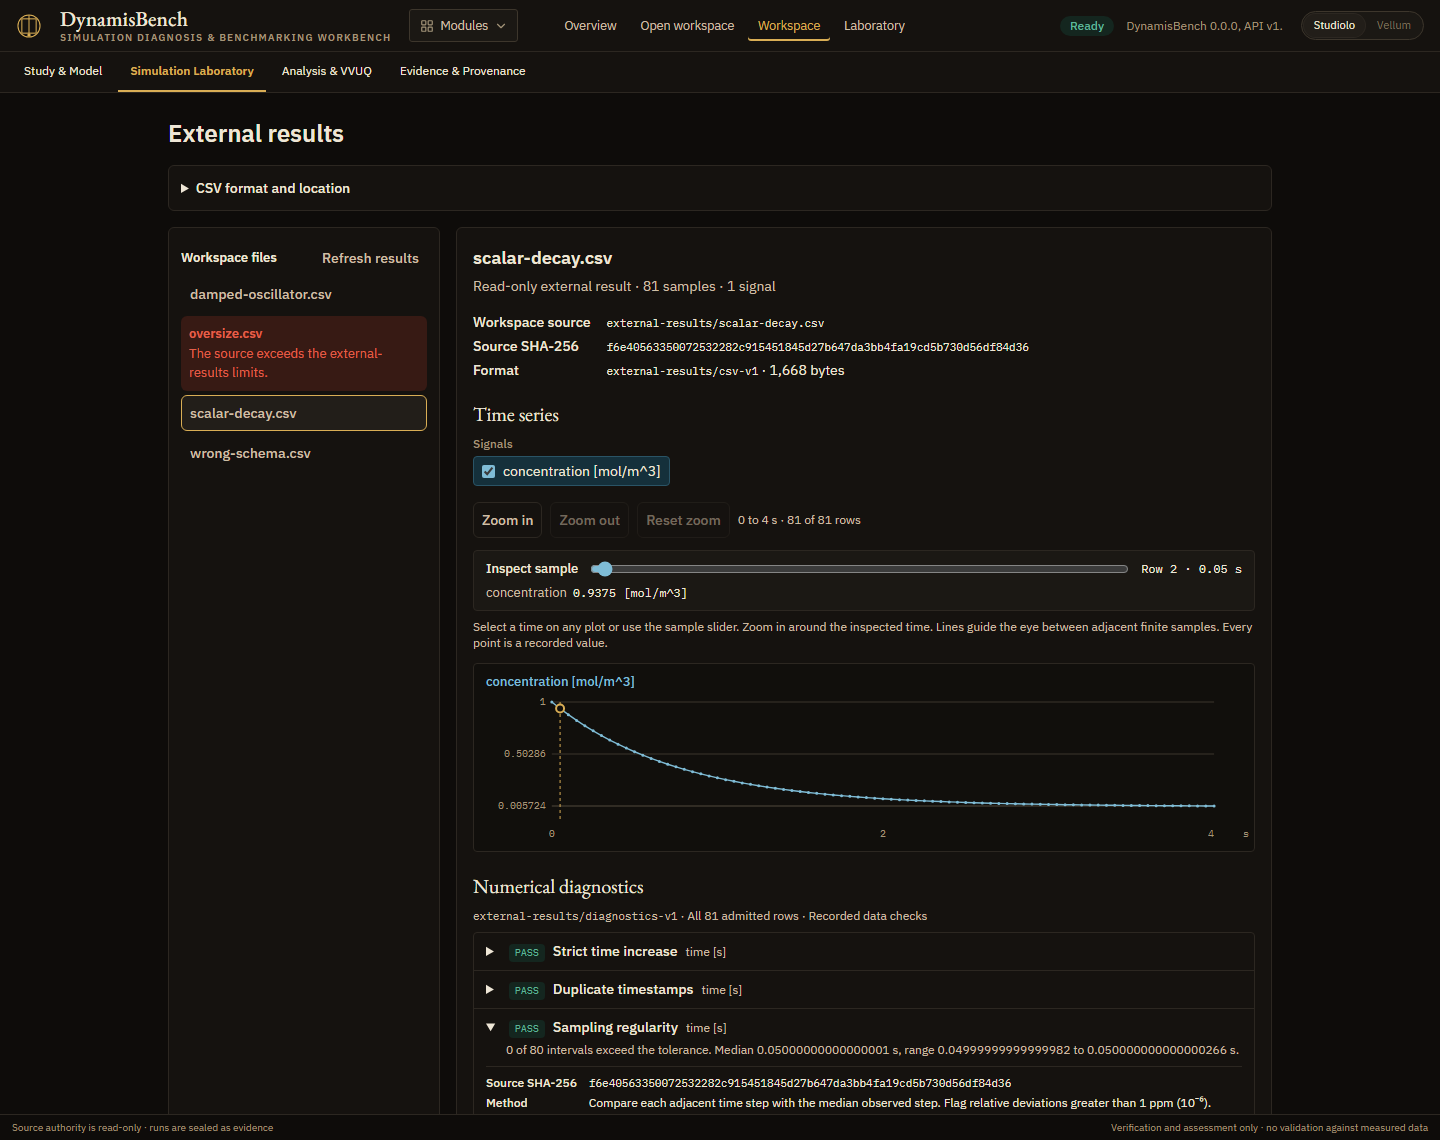
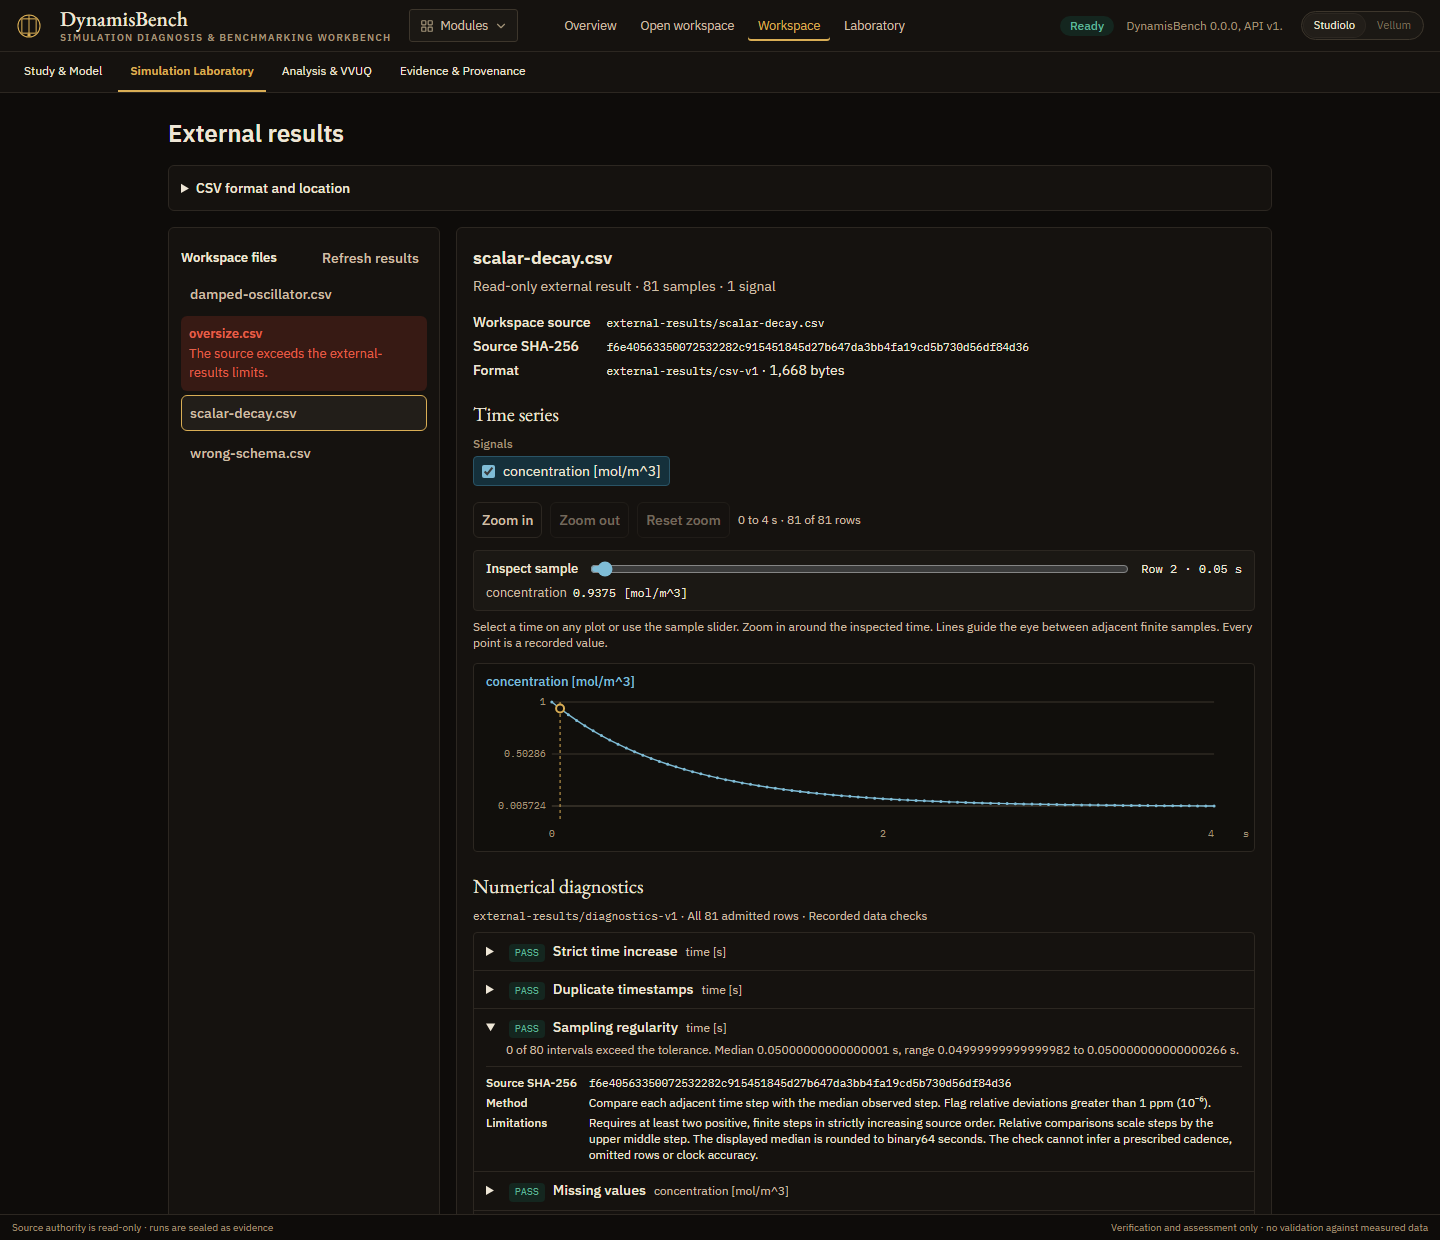
RES-742: handle extreme binary64 axes and sampling intervals

diff --git a/apps/workbench/src/workbench/external-plots.tsx b/apps/workbench/src/workbench/external-plots.tsx
@@ -3,7 +3,7 @@ import { useEffect, useMemo, useRef, useState, type MouseEvent } from "react";
 import type { ResultColumn } from "../api/external-results";
 import { Button } from "../ui/button";
 import type { ExternalResult } from "./external-samples";
-import { buildTrace, plotFraction, plotValue, recordedValue, timeDomain, type PlotDomain } from "./external-trace";
+import { buildTrace, plotFraction, plotTicks, plotValue, recordedValue, timeDomain, type PlotDomain } from "./external-trace";
 
 const LEFT = 78;
 const RIGHT = 40;
@@ -131,17 +131,6 @@ export function ExternalPlots({ result, connect }: { result: ExternalResult; con
   );
 }
 
-function ticks(domain: PlotDomain, fractions: readonly number[]) {
-  const seen = new Set<string>();
-  return fractions.flatMap((fraction) => {
-    const value = plotValue(domain, fraction);
-    const label = String(Number(value.toPrecision(5)));
-    if (seen.has(label)) return [];
-    seen.add(label);
-    return [{ label, fraction: plotFraction(value, domain) }];
-  });
-}
-
 function SignalPlot({ channel, column, rows, indices, domain, width, connect, cursor, inspect }: {
   channel: ResultColumn;
   column: number;
@@ -158,8 +147,8 @@ function SignalPlot({ channel, column, rows, indices, domain, width, connect, cu
   const y = (fraction: number) => BASELINE - fraction * (BASELINE - TOP);
   const trace = useMemo(() => buildTrace(rows, indices, column, (time) =>
     LEFT + plotFraction(time, domain) * span, y, connect), [rows, indices, column, domain, span, connect]);
-  const timeTicks = ticks(domain, width < 420 ? [0, 1] : TICK_FRACTIONS);
-  const valueTicks = trace.domain === null ? [] : ticks(trace.domain, TICK_FRACTIONS);
+  const timeAxis = plotTicks(domain, width < 420 ? [0, 1] : TICK_FRACTIONS);
+  const valueAxis = trace.domain === null ? null : plotTicks(trace.domain, TICK_FRACTIONS);
   const cursorValue = cursor[column]!;
   const cursorX = x(cursor[0]);
   const title = `${channel.name} [${channel.unit}]`;
@@ -168,6 +157,12 @@ function SignalPlot({ channel, column, rows, indices, domain, width, connect, cu
     <figure className="min-w-0 rounded border border-line bg-scene py-2">
       <figcaption className="flex flex-wrap items-center gap-x-3 gap-y-1 px-3">
         <span className="min-w-0 wrap-anywhere font-medium text-ext">{title}</span>
+        {timeAxis.origin !== null && (
+          <span className="text-xs text-ink-2">Time ticks relative to {recordedValue(timeAxis.origin)} s</span>
+        )}
+        {valueAxis?.origin != null && (
+          <span className="text-xs text-ink-2">Value ticks relative to {recordedValue(valueAxis.origin)} [{channel.unit}]</span>
+        )}
         {trace.domain === null && <span className="text-xs text-ink-2">No finite values in view</span>}
         {trace.missing !== "" && <span className="text-xs text-warn">Missing · upper marks</span>}
         {trace.nonfinite !== "" && <span className="text-xs text-err">Nonfinite · lower marks</span>}
@@ -176,13 +171,13 @@ function SignalPlot({ channel, column, rows, indices, domain, width, connect, cu
         preserveAspectRatio="none" role="img"
         aria-label={`${title} over time [s]`} onClick={inspect} className="block cursor-crosshair">
         <g className="fill-ink-3 font-mono text-[10px]">
-          {valueTicks.map(({ label, fraction }) => (
+          {valueAxis?.ticks.map(({ label, fraction }) => (
             <g key={label}>
               <line x1={LEFT} x2={width - RIGHT} y1={y(fraction)} y2={y(fraction)} className="stroke-line-2" />
               <text x={LEFT - 6} y={y(fraction) + 3} textAnchor="end">{label}</text>
             </g>
           ))}
-          {timeTicks.map(({ label, fraction }) => (
+          {timeAxis.ticks.map(({ label, fraction }) => (
             <text key={label} x={LEFT + fraction * span} y={HEIGHT - 6}
               textAnchor={fraction === 1 ? "end" : "middle"}>{label}</text>
           ))}

diff --git a/apps/workbench/e2e/external-results.spec.ts b/apps/workbench/e2e/external-results.spec.ts
@@ -71,7 +71,7 @@ test("discovers and inspects numeric files through the secured sidecar", async (
 
   const screenshotDir = process.env.DYNAMISBENCH_RESULTS_SCREENSHOTS;
   if (screenshotDir) {
-    await page.setViewportSize({ width: 1440, height: 1140 });
+    await page.setViewportSize({ width: 1440, height: 1240 });
     await page.getByRole("heading", { name: "External results" }).scrollIntoViewIfNeeded();
     await page.screenshot({ path: path.join(screenshotDir, "gate-2-scalar.png") });
   }
@@ -148,11 +148,18 @@ test("exposes gaps, nonfinite observations, irregular grids and source refusals"
   const folder = path.join(sourceRoot, "external-results");
   await mkdir(folder);
   const gaps = "time[s],x[m]\n0,2\n1,100\n2,\n3,-100\n4,NaN\n5,+Inf\n6,-Inf\n7,3";
+  const extreme = Number.MAX_VALUE;
+  const denseRows = Array.from({ length: 20_000 }, (_, index) => {
+    const x = index === 10_017 ? 9999 : index === 19_999 ? "" : 0;
+    return `${index},${x},0,0,0`;
+  });
   const files = {
     "gaps.csv": gaps,
     "irregular.csv": "time[s],x[m]\n0,0\n1,2\n5,-9\n6,5",
     "duplicates.csv": "time[s],x[m]\n0,0\n2,1\n0,2",
-    "extreme.csv": "time[s],x[m]\n-1e308,-1e308\n1e308,1e308",
+    "extreme.csv": `time[s],x[m]\n${-extreme},${-extreme}\n${extreme},${extreme}`,
+    "offset.csv": "time[s],x[m]\n1000000000,1000000000\n1000000001,1000000001\n1000000002,1000000002",
+    "dense.csv": `time[s],x[m],y[m],z[m],speed[m/s]\n${denseRows.join("\n")}`,
     "bad-row.csv": "time[s],x[m]\n0,1\n1,2,3",
   };
   await Promise.all(Object.entries(files).map(([name, contents]) => writeFile(path.join(folder, name), contents)));
@@ -211,8 +218,26 @@ test("exposes gaps, nonfinite observations, irregular grids and source refusals"
   await choose("extreme.csv");
   await expect(regularity.locator("summary")).toContainText("UNSUPPORTED");
   await expect(plot).toBeVisible();
+  await expect(plot.getByText("Infinity")).toHaveCount(0);
   expect(await plot.locator("[d]").evaluateAll((paths) => paths.map((element) => element.getAttribute("d"))))
     .not.toEqual(expect.arrayContaining([expect.stringMatching(/NaN|Infinity/)]));
+
+  await choose("offset.csv");
+  await expect(page.getByText("Time ticks relative to 1000000000 s")).toBeVisible();
+  await expect(page.getByText("Value ticks relative to 1000000000 [m]")).toBeVisible();
+  await expect(plot.getByText("1", { exact: true })).toHaveCount(2);
+
+  await choose("dense.csv");
+  await expect(page.getByLabel("Visible time span")).toContainText("20000 of 20000 rows");
+  await expect(plot.getByText("9999", { exact: true })).toBeVisible();
+  const denseMissing = finding("Missing values").filter({ hasText: "x [m]" });
+  await denseMissing.locator("summary").click();
+  await expect(denseMissing).toContainText("1 of 20000 values are missing.");
+  await expect(denseMissing.getByText("20000", { exact: true })).toBeVisible();
+  await page.getByRole("button", { name: "Zoom in", exact: true }).click();
+  await expect(page.getByLabel("Visible time span")).toContainText("10000 of 20000 rows");
+  await expect(plot.getByText("9999", { exact: true })).toHaveCount(0);
+  await expect(denseMissing).toContainText("1 of 20000 values are missing.");
 
   await choose("bad-row.csv");
   await expect(page.getByRole("alert")).toContainText("Each row must match the header");

diff --git a/apps/workbench/src/workbench/external-diagnostics.ts b/apps/workbench/src/workbench/external-diagnostics.ts
@@ -20,7 +20,7 @@ const METHODS = {
   regularity: {
     label: "Sampling regularity",
     method: "Compare each adjacent time step with the median observed step. Flag relative deviations greater than 1 ppm (10⁻⁶).",
-    limitations: "Requires at least two positive, finite steps in strictly increasing source order. The tolerance describes the decoded grid. The check cannot infer a prescribed cadence, omitted rows or clock accuracy.",
+    limitations: "Requires at least two positive, finite steps in strictly increasing source order. Relative comparisons scale steps by the upper middle step. The displayed median is rounded to binary64 seconds. The check cannot infer a prescribed cadence, omitted rows or clock accuracy.",
   },
   missing: {
     label: "Missing values",
@@ -114,10 +114,15 @@ export function diagnoseExternalResult({ metadata, rows }: ExternalResult): Exte
     const sorted = steps.toSorted((a, b) => a - b);
     const lower = sorted[Math.floor((sorted.length - 1) / 2)]!;
     const upper = sorted[Math.floor(sorted.length / 2)]!;
-    const median = lower + (upper - lower) / 2;
+    // In units of the upper middle step, the median stays in [0.5, 1] even
+    // when its value in seconds falls between adjacent positive subnormals.
+    const scaledMedian = (lower / upper + 1) / 2;
+    const median = scaledMedian * upper;
     const irregular: Tally = { count: 0 };
     for (const [index, step] of steps.entries()) {
-      if (Math.abs(step - median) / median > RELATIVE_STEP_TOLERANCE) countAt(irregular, index + 1);
+      if (Math.abs(step / upper - scaledMedian) / scaledMedian > RELATIVE_STEP_TOLERANCE) {
+        countAt(irregular, index + 1);
+      }
     }
     findings.push(finding("regularity", time, irregular.count === 0 ? "PASS" : "FAIL",
       `${irregular.count} of ${steps.length} intervals exceed the tolerance. Median ${median} s, range ${sorted[0]} to ${sorted.at(-1)} s.`,

diff --git a/apps/workbench/src/workbench/external-trace.ts b/apps/workbench/src/workbench/external-trace.ts
@@ -33,6 +33,26 @@ export function recordedValue(value: number | null): string {
   return Object.is(value, -0) ? "-0" : String(value);
 }
 
+function tickLabel(value: number): string {
+  // Keep the rounded decimal as text. Re-parsing can overflow near Number.MAX_VALUE.
+  return value.toPrecision(5).replace(/(\.\d*?[1-9])0+(?=e|$)|\.0+(?=e|$)/, "$1");
+}
+
+export function plotTicks(domain: PlotDomain, fractions: readonly number[]) {
+  const values = [...new Set(fractions.map((fraction) => plotValue(domain, fraction)))];
+  const labels = values.map(tickLabel);
+  // Large offsets can make distinct ticks round to the same label. Express that
+  // narrow axis relative to its minimum and expose the origin next to the plot.
+  const origin = new Set(labels).size < values.length ? domain[0] : null;
+  return {
+    origin,
+    ticks: values.map((value, index) => ({
+      label: origin === null ? labels[index]! : tickLabel(value - origin),
+      fraction: plotFraction(value, domain),
+    })),
+  };
+}
+
 /** Map every visible source row to geometry before rounding coordinates for SVG. */
 export function buildTrace(
   rows: ExternalResult["rows"],

diff --git a/apps/workbench/src/workbench/external-trace.test.ts b/apps/workbench/src/workbench/external-trace.test.ts
@@ -1,6 +1,6 @@
 import { describe, expect, it } from "vitest";
 
-import { buildTrace, plotFraction, plotValue, timeDomain } from "./external-trace";
+import { buildTrace, plotFraction, plotTicks, plotValue, timeDomain } from "./external-trace";
 import type { ExternalResult } from "./external-samples";
 
 describe("external trace geometry", () => {
@@ -36,5 +36,16 @@ describe("external trace geometry", () => {
     expect(plotFraction(0, [-Number.MAX_VALUE, Number.MAX_VALUE])).toBe(0.5);
     expect(plotValue([-Number.MAX_VALUE, Number.MAX_VALUE], 0.5)).toBe(0);
     expect(plotFraction(8, [8, 8])).toBe(0.5);
+  });
+
+  it("labels finite extremes and resolves closely spaced values at a large offset", () => {
+    const values = plotTicks([-Number.MAX_VALUE, Number.MAX_VALUE], [0, 0.5, 1]);
+    expect(values.ticks.map(({ label }) => label)).toEqual(["-1.7977e+308", "0", "1.7977e+308"]);
+    expect(plotTicks([1e9, 1e9 + 1], [0, 0.5, 1])).toEqual({
+      origin: 1e9,
+      ticks: [
+        { label: "0", fraction: 0 }, { label: "0.5", fraction: 0.5 }, { label: "1", fraction: 1 },
+      ],
+    });
   });
 });

diff --git a/apps/workbench/src/workbench/external-diagnostics.test.ts b/apps/workbench/src/workbench/external-diagnostics.test.ts
@@ -67,6 +67,14 @@ describe("external diagnostics v1", () => {
     expect(diagnose([[-1e308, 1, 1], [1e308, 1, 1]]).findings[2]?.status).toBe("UNSUPPORTED");
   });
 
+  it("compares steps before converting a subnormal median to displayed seconds", () => {
+    const tiny = Number.MIN_VALUE;
+    const { findings } = diagnose([[0, 1, 1], [tiny, 1, 1], [tiny * 3, 1, 1]]);
+    expect(findings[2]).toMatchObject({
+      check: "regularity", status: "FAIL", affectedCount: 2, firstAffectedRow: 2,
+    });
+  });
+
   it("checks the last admitted row even in a dense result", () => {
     const rows: ExternalResult["rows"] = Array.from({ length: 20_000 }, (_, i) => [
       i, i === 19_999 ? null : 1, i === 19_999 ? Infinity : 1,

diff --git a/evidence/RES-742/README.md b/evidence/RES-742/README.md
@@ -7,7 +7,7 @@
 1. Open both fixture CSVs using the Gate 1 steps below. On scalar decay, move the **Inspect sample** slider one row with the right arrow. Row 2 shows 0.05 s and 0.9375 mol/m³. Zoom in, then zoom out to restore the original time span.
 2. On damped oscillator, select **position** and **velocity**. Click a plot to inspect the nearest recorded time on both channels, zoom in around that row, then reset. Each panel has its own labeled value scale. The slider steps through visible rows in source order, including duplicates.
 3. Expand a finding in **Numerical diagnostics**. Verify its recorded quantity, source SHA-256, method and limits. Both fixtures pass the descriptive checks. Zoom and signal selection leave their diagnostic sample counts fixed.
-4. Run the focused secured-sidecar test with `pnpm --filter @dynamisbench/workbench run test:e2e external-results.spec.ts`. It also exercises extrema, missing and nonfinite samples, irregular and repeated timestamps, extreme binary64 values, malformed rows, source changes and narrow-screen controls. Set `DYNAMISBENCH_RESULTS_SCREENSHOTS` to a local directory to capture the Gate 2 views.
+4. Run the focused secured-sidecar test with `pnpm --filter @dynamisbench/workbench run test:e2e external-results.spec.ts`. It also exercises extrema, missing and nonfinite samples, irregular and repeated timestamps, extreme binary64 values, large offsets, malformed rows, source changes and narrow-screen controls. A 20,000-row import verifies that zoom changes the visible extrema while the findings still account for every admitted row. Set `DYNAMISBENCH_RESULTS_SCREENSHOTS` to a local directory to capture the Gate 2 views.
 
 Diagnostics v1 checks admitted binary64 values. Sampling regularity uses a relative tolerance of 1 ppm against the median observed interval. This describes the recorded grid and says nothing about the simulator or the intended cadence. Plots use every visible row and draw line guides only between adjacent finite samples on a time grid that passes the regularity check. The marks under the axis locate missing and nonfinite values without assigning them a y value.
 
